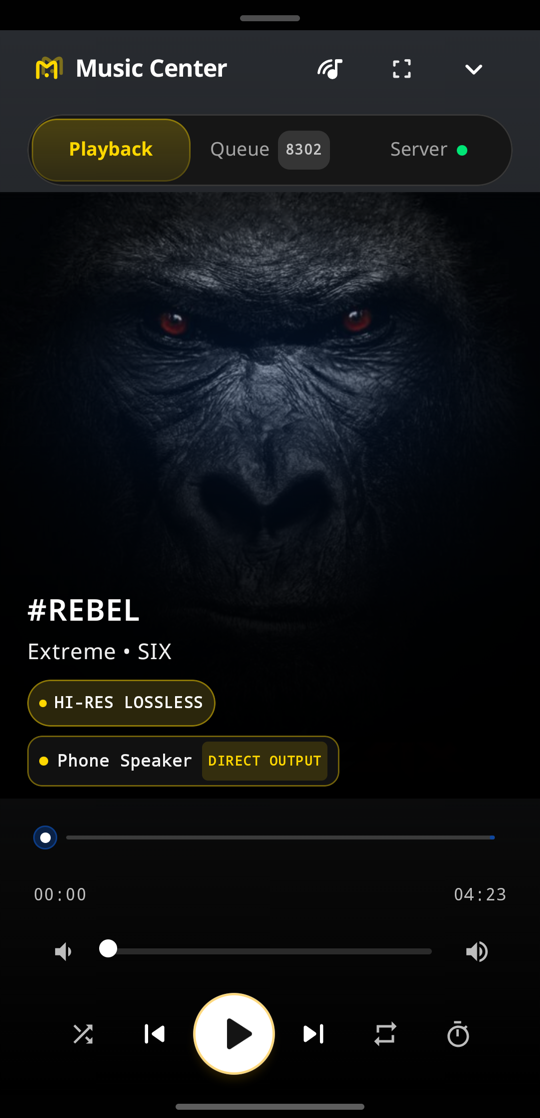
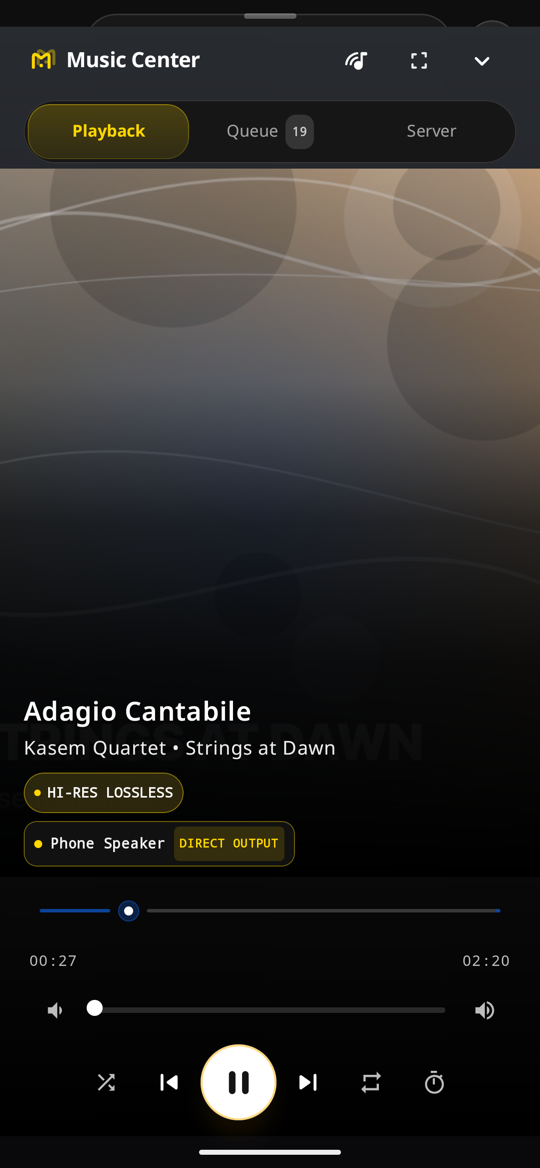
Docs: Screenshots from a generated demo library
The README and User Guide screenshots showed a personal library and
commercial cover art. They are retaken on the emulator with a demo
library made by tools/demo-library: invented artists, synthesized
music and generated covers, in CD, 24-bit and Hi-Res FLAC/ALAC with a
DR7 to DR15 spread. The player picker shot stays from the phone (the
emulator cannot see network renderers; it shows no library or art).

diff --git a/tools/demo-library/cover.swift b/tools/demo-library/cover.swift
@@ -1,0 +1,53 @@
+// Draws an original album cover: gradient, geometric shapes and the album title.
+// usage: swift cover.swift OUT.jpg "Album" "Artist" HEX1 HEX2 SEED
+import AppKit
+import CoreGraphics
+
+let a = CommandLine.arguments
+let (out, album, artist) = (a[1], a[2], a[3])
+func color(_ hex: String, _ alpha: CGFloat = 1) -> CGColor {
+    let v = UInt32(hex, radix: 16)!
+    return CGColor(red: CGFloat((v >> 16) & 0xff) / 255, green: CGFloat((v >> 8) & 0xff) / 255,
+                   blue: CGFloat(v & 0xff) / 255, alpha: alpha)
+}
+let (c1, c2) = (color(a[4]), color(a[5]))
+var seed = UInt64(a[6])!
+func rand() -> CGFloat {
+    seed = seed &* 6364136223846793005 &+ 1442695040888963407
+    return CGFloat(seed >> 33) / CGFloat(UInt64(1) << 31)
+}
+
+let size = 1000
+let ctx = CGContext(data: nil, width: size, height: size, bitsPerComponent: 8, bytesPerRow: 0,
+                    space: CGColorSpaceCreateDeviceRGB(), bitmapInfo: CGImageAlphaInfo.noneSkipLast.rawValue)!
+let gradient = CGGradient(colorsSpace: CGColorSpaceCreateDeviceRGB(), colors: [c1, c2] as CFArray, locations: [0, 1])!
+ctx.drawLinearGradient(gradient, start: .zero, end: CGPoint(x: size, y: size), options: [])
+
+for _ in 0..<7 {
+    let r = 80 + rand() * 320
+    let rect = CGRect(x: rand() * CGFloat(size) - r / 2, y: rand() * CGFloat(size) - r / 2, width: r, height: r)
+    ctx.setFillColor(color(rand() > 0.5 ? "FFFFFF" : "000000", 0.06 + rand() * 0.12))
+    ctx.fillEllipse(in: rect)
+}
+ctx.setStrokeColor(color("FFFFFF", 0.35))
+for i in 0..<5 {
+    ctx.setLineWidth(2 + CGFloat(i))
+    let y = 120 + rand() * 760
+    ctx.move(to: CGPoint(x: 0, y: y))
+    ctx.addCurve(to: CGPoint(x: CGFloat(size), y: y + (rand() - 0.5) * 300),
+                 control1: CGPoint(x: 330, y: y + (rand() - 0.5) * 500),
+                 control2: CGPoint(x: 660, y: y + (rand() - 0.5) * 500))
+    ctx.strokePath()
+}
+
+let nsctx = NSGraphicsContext(cgContext: ctx, flipped: false)
+NSGraphicsContext.current = nsctx
+func draw(_ text: String, _ font: NSFont, _ y: CGFloat) {
+    let attrs: [NSAttributedString.Key: Any] = [.font: font, .foregroundColor: NSColor.white]
+    NSAttributedString(string: text, attributes: attrs).draw(at: NSPoint(x: 70, y: y))
+}
+draw(album.uppercased(), NSFont.systemFont(ofSize: 72, weight: .heavy), 150)
+draw(artist, NSFont.systemFont(ofSize: 40, weight: .medium), 90)
+
+let rep = NSBitmapImageRep(cgImage: ctx.makeImage()!)
+try! rep.representation(using: .jpeg, properties: [.compressionFactor: 0.9])!.write(to: URL(fileURLWithPath: out))

diff --git a/tools/demo-library/make_demo_library.py b/tools/demo-library/make_demo_library.py
@@ -1,0 +1,175 @@
+"""Generate the MusicMate demo library: original synthesized music, covers and tags.
+
+Everything is made here (invented artists, generated audio and art), so screenshots of it can be
+published freely. Needs numpy and mutagen, plus macOS afconvert and swift.
+
+usage: python make_demo_library.py OUT_DIR
+"""
+import os
+import subprocess
+import sys
+import wave
+
+import numpy as np
+from mutagen.flac import FLAC, Picture
+from mutagen.mp4 import MP4, MP4Cover
+
+HERE = os.path.dirname(os.path.abspath(__file__))
+
+# (artist, album, genre, year, codec, bits, rate, dynamics, palette, tempo, tracks [(title, seconds)])
+ALBUMS = [
+    ("Aurora Lane", "Night Drive", "Electronic", 2024, "flac", 24, 96000, "loud", ("1A1446", "E94560"), 122,
+     [("Neon Avenue", 192), ("Midnight Signal", 178), ("Afterglow", 205), ("Coastline Lights", 161)]),
+    ("Kasem Quartet", "Strings at Dawn", "Classical", 2021, "flac", 24, 192000, "wide", ("2C3E50", "D4A373"), 72,
+     [("Allegro Moderato", 125), ("Adagio Cantabile", 140)]),
+    ("Mae Riverside", "Back Porch", "Folk", 2019, "flac", 16, 44100, "medium", ("6B4226", "F2C57C"), 96,
+     [("Porch Light", 185), ("Slow River", 220), ("Home by Dusk", 172), ("Paper Boats", 198)]),
+    ("The Lanterns", "City of Glass", "Rock", 2023, "alac", 24, 48000, "loud", ("0B0C10", "45A29E"), 132,
+     [("Glass Towers", 210), ("Static Hearts", 182), ("Last Train Home", 224)]),
+    ("Siam Breeze", "Monsoon Letters", "Luk Thung", 2022, "flac", 16, 44100, "medium", ("004E64", "F6AE2D"), 104,
+     [("Rain on Tin Roofs", 190), ("Letters Home", 215), ("Rice Field Sunset", 175)]),
+    ("Nova Jazz Trio", "Blue Hour Sessions", "Jazz", 2020, "flac", 24, 88200, "wide", ("0F2027", "2C5364"), 88,
+     [("Blue Hour", 245), ("Brushes and Smoke", 200), ("Late Set", 230)]),
+]
+
+SCALE = np.array([0, 2, 4, 5, 7, 9, 11])
+PROGRESSION = [0, 5, 3, 4]  # I vi IV V, as scale degrees
+
+
+def midi_hz(n):
+    return 440.0 * 2 ** ((n - 69) / 12)
+
+
+def tone(freq, n, rate, harmonics=(1.0, 0.5, 0.25, 0.12)):
+    t = np.arange(n, dtype=np.float32) / rate
+    out = np.zeros(n, dtype=np.float32)
+    for k, amp in enumerate(harmonics, 1):
+        if freq * k < rate / 2.2:
+            out += amp * np.sin(2 * np.pi * freq * k * t, dtype=np.float32)
+    return out
+
+
+def envelope(n, rate, attack=0.01, release=0.3):
+    env = np.ones(n, dtype=np.float32)
+    a, r = min(n, int(attack * rate)), min(n, int(release * rate))
+    if a: env[:a] = np.linspace(0, 1, a, dtype=np.float32)
+    if r: env[-r:] *= np.linspace(1, 0, r, dtype=np.float32)
+    return env
+
+
+def synth_track(seconds, rate, tempo, dynamics, seed, percussive):
+    rng = np.random.default_rng(seed)
+    n = int(seconds * rate)
+    mix = np.zeros((2, n), dtype=np.float32)
+    root = 48 + int(rng.integers(0, 7))
+    beat = int(rate * 60 / tempo)
+    bar = beat * 4
+    for start in range(0, n, bar):
+        chord = PROGRESSION[(start // bar) % 4]
+        length = min(bar, n - start)
+        for i, voice in enumerate((0, 2, 4)):
+            deg = chord + voice
+            note = root + 12 + SCALE[deg % 7] + 12 * (deg // 7)
+            pad = 0.10 * tone(midi_hz(note), length, rate) * envelope(length, rate, 0.4, 0.6)
+            mix[i % 2, start:start + length] += pad
+            mix[(i + 1) % 2, start:start + length] += 0.6 * pad
+        for b in range(4):
+            s = start + b * beat
+            if s >= n: break
+            m = min(beat, n - s)
+            bass = 0.22 * tone(midi_hz(root - 12 + SCALE[chord % 7]), m, rate, (1.0, 0.3)) * envelope(m, rate, 0.005, 0.2)
+            mix[:, s:s + m] += bass
+            if percussive:
+                k = min(int(0.25 * rate), m)
+                t = np.arange(k, dtype=np.float32) / rate
+                kick = 0.5 * np.sin(2 * np.pi * (50 + 90 * np.exp(-t * 30)) * t) * np.exp(-t * 12)
+                mix[:, s:s + k] += kick.astype(np.float32)
+                h = min(int(0.05 * rate), m)
+                hat = 0.05 * rng.standard_normal(h).astype(np.float32) * np.linspace(1, 0, h, dtype=np.float32)
+                off = s + beat // 2
+                if off + h <= n: mix[:, off:off + h] += hat
+    step = beat // 2
+    degree = 4
+    for s in range(0, n, step):
+        if rng.random() < 0.3: continue
+        degree = int(np.clip(degree + rng.integers(-2, 3), 0, 13))
+        m = min(step * int(rng.integers(1, 3)), n - s)
+        note = root + 24 + SCALE[degree % 7] + 12 * (degree // 7)
+        lead = 0.12 * tone(midi_hz(note), m, rate, (1.0, 0.4, 0.2)) * envelope(m, rate, 0.01, 0.15)
+        pan = rng.random()
+        mix[0, s:s + m] += lead * (1 - pan)
+        mix[1, s:s + m] += lead * pan
+
+    t = np.linspace(0, 1, n, dtype=np.float32)
+    if dynamics == "wide":
+        # Quiet opening, swell to a climax, fade, with sparse loud accents: a wide dynamic range like an acoustic recording
+        mix *= (0.35 + 0.65 * np.sin(np.pi * t) ** 2).astype(np.float32)
+        for s in range(0, n, bar):
+            if rng.random() < 0.35:
+                k = min(int(0.6 * rate), n - s)
+                hit = 0.25 * tone(midi_hz(root - 12), k, rate, (1.0, 0.5, 0.3)) * np.exp(-np.arange(k, dtype=np.float32) / rate * 6)
+                mix[:, s:s + k] += hit
+        peak = 0.89
+    elif dynamics == "medium":
+        mix *= (0.5 + 0.5 * np.sin(np.pi * t)).astype(np.float32)
+        mix = np.tanh(1.5 * mix)
+        peak = 0.94
+    else:
+        # Heavy limiting, like a loud modern master
+        mix = np.tanh(2.6 * mix)
+        peak = 0.98
+    fade = min(n, int(2 * rate))
+    mix[:, -fade:] *= np.linspace(1, 0, fade, dtype=np.float32)
+    return mix * (peak / max(1e-9, float(np.abs(mix).max())))
+
+
+def write_wav(path, mix, rate, bits):
+    scale = 2 ** (bits - 1) - 1
+    ints = np.ascontiguousarray(np.round(mix.T * scale).astype(np.int32))
+    if bits == 16:
+        data = ints.astype("<i2").tobytes()
+    else:
+        data = (ints.astype("<i4").view(np.uint8).reshape(-1, 4)[:, :3]).tobytes()
+    with wave.open(path, "wb") as w:
+        w.setnchannels(2)
+        w.setsampwidth(bits // 8)
+        w.setframerate(rate)
+        w.writeframes(data)
+
+
+def main(out_dir):
+    for a, (artist, album, genre, year, codec, bits, rate, dynamics, palette, tempo, tracks) in enumerate(ALBUMS):
+        folder = os.path.join(out_dir, f"{artist} - {album}")
+        os.makedirs(folder, exist_ok=True)
+        cover = os.path.join(folder, "cover.jpg")
+        subprocess.run(["swift", os.path.join(HERE, "cover.swift"), cover, album, artist, *palette, str(a + 7)], check=True)
+        art = open(cover, "rb").read()
+        for i, (title, seconds) in enumerate(tracks, 1):
+            base = os.path.join(folder, f"{i:02d} {title}")
+            wav = base + ".wav"
+            write_wav(wav, synth_track(seconds, rate, tempo, dynamics, seed=a * 100 + i,
+                                       percussive=genre in ("Electronic", "Rock", "Luk Thung")), rate, bits)
+            if codec == "flac":
+                path = base + ".flac"
+                subprocess.run(["afconvert", "-f", "flac", "-d", "flac", wav, path], check=True)
+                tags = FLAC(path)
+                tags.update({"TITLE": title, "ARTIST": artist, "ALBUM": album, "ALBUMARTIST": artist,
+                             "GENRE": genre, "DATE": str(year), "TRACKNUMBER": str(i), "TRACKTOTAL": str(len(tracks))})
+                pic = Picture()
+                pic.type, pic.mime, pic.width, pic.height, pic.depth, pic.data = 3, "image/jpeg", 1000, 1000, 24, art
+                tags.add_picture(pic)
+            else:
+                path = base + ".m4a"
+                subprocess.run(["afconvert", "-f", "m4af", "-d", "alac", wav, path], check=True)
+                tags = MP4(path)
+                tags.update({"\xa9nam": title, "\xa9ART": artist, "\xa9alb": album, "aART": artist,
+                             "\xa9gen": genre, "\xa9day": str(year), "trkn": [(i, len(tracks))],
+                             "covr": [MP4Cover(art, imageformat=MP4Cover.FORMAT_JPEG)]})
+            tags.save()
+            os.remove(wav)
+            print(f"{os.path.relpath(path, out_dir)}  {bits}/{rate}  {dynamics}", flush=True)
+        os.remove(cover)
+
+
+if __name__ == "__main__":
+    main(sys.argv[1])

diff --git a/tasks/todo.md b/tasks/todo.md
@@ -4,8 +4,15 @@
 - [x] Rewrite USER_GUIDE from the user's view, by task: getting started, browsing, playing and the queue, choosing a player, streaming and web remote, song details and tags, organizing files, quality badges, settings, troubleshooting. Check each behaviour on the phone while writing.
 - [x] Capture extra screenshots for the guide (menu, queue, tag edit form, settings, Studio Console) after analysis finishes, same crop/resize script.
 - [x] Verify links and images (check_links.py: 0 broken before and after the move), review, commit (no push).
-- [ ] Retake all README and User Guide screenshots on the emulator with a demo library of freely licensed music (CC0 / Creative Commons, covers free to use), so no copyrighted cover art or personal library is published. Current shots are from the user's phone (user decision 2026-10-04: keep as is until then).
+- [x] Retake all README and User Guide screenshots on the emulator with a demo library of freely licensed music (CC0 / Creative Commons, covers free to use), so no copyrighted cover art or personal library is published. Current shots are from the user's phone (user decision 2026-10-04: keep as is until then).
+  - [x] tools/demo-library: generate original music (numpy synthesis, varied dynamics), covers (CoreGraphics), FLAC 16/44.1, 24/88.2, 24/96, 24/192 and ALAC 24/48 via afconvert, tags and art via mutagen. Invented artists only.
+  - [x] Emulator: replace old /sdcard/Music/MusicMate Demo, reinstall signed 3.24 build, grant access, scan, wait for analysis.
+  - [x] Retake the 12 screenshots (player picker stays from the phone: emulator cannot see network renderers, and the shot has no cover art or library), crop, check each image.
+  - [ ] Commit and push.
 - [ ] DR mismatch: Studio Console / Now Playing show dynamicRange truncated ("DR 13" for '39) while lists show drScore rounded ("DR14"). Use one field everywhere.
+- [ ] Library tips card says "Long Press: Long-press a song for batch editing", but in the default Play tracks mode a long press opens the song details; batch selection needs the Edit tags mode. Make the tip follow the tap mode.
+- [ ] Studio Console "UP NEXT" showed the playing track (Adagio Cantabile) while the queue's next was Afterglow (emulator, 2026-10-04).
+- [x] "Don't show these tips again" kept the tips on screen until restart (GestureHintBanner had no state; callers pass no onDismissAll). Fixed with remembered dismissal; verified on the emulator queue tips.
 - [ ] Settings: "Album Gain" button text wraps onto two lines at default font size.
 
 # Scan analysis phase (2026-10-04, found during README screenshots)

diff --git a/tools/demo-library/README.md b/tools/demo-library/README.md
@@ -1,0 +1,22 @@
+# Demo library
+
+Generates the music library used for the README and User Guide screenshots. The artists, music and covers are all made by these scripts, so screenshots of them can be published without any rights question and without showing a personal library.
+
+The library has 19 tracks in 6 albums. It covers CD (16/44.1), 24-bit (24/48 ALAC, 24/88.2) and Hi-Res (24/96, 24/192) files, with loud, medium and wide dynamics. In the app they measure about DR7, DR10 to 12 and DR12 to 15.
+
+## Requirements
+
+- macOS, for `afconvert` (FLAC and ALAC encoding) and `swift` (covers).
+- Python with `numpy` and `mutagen`.
+
+## Usage
+
+```bash
+python3 -m venv /tmp/demo-venv && /tmp/demo-venv/bin/pip install numpy mutagen
+/tmp/demo-venv/bin/python make_demo_library.py /tmp/demo-library
+adb -s emulator-5554 push /tmp/demo-library/. "/sdcard/Music/MusicMate Demo/"
+```
+
+Then scan in MusicMate and wait for analysis to finish before taking screenshots.
+
+Crop the 63 px status bar from emulator screenshots and resize them to 540 px wide (1000 px for the landscape Studio Console).

diff --git a/docs/USER_GUIDE.md b/docs/USER_GUIDE.md
@@ -142,7 +142,7 @@ MusicMate runs a DLNA media server on your phone, so other devices can browse an
 
 - Tap **Stop** to turn the server off. It stays off, even after reopening the app, until you tap **Start**. Choosing a network player starts it again when needed.
 - **Control apps** such as mConnect or BubbleUPnP see MusicMate as a media server. Browse your library there and play to any renderer, with full tags and cover art.
-- **Web remote.** Open the address shown under *Web Interface & Remote*, for example `http://192.168.1.51:9000/index.html`, in a browser on the same network. **Open WebUI** and **Copy** help with that, and the QR code opens it on another phone.
+- **Web remote.** Open the address shown under *Web Interface & Remote*, for example `http://192.168.1.20:9000/index.html`, in a browser on the same network. **Open WebUI** and **Copy** help with that, and the QR code opens it on another phone.
 
 Streaming works on home Wi-Fi and on the phone's own hotspot, including both at once.
 
